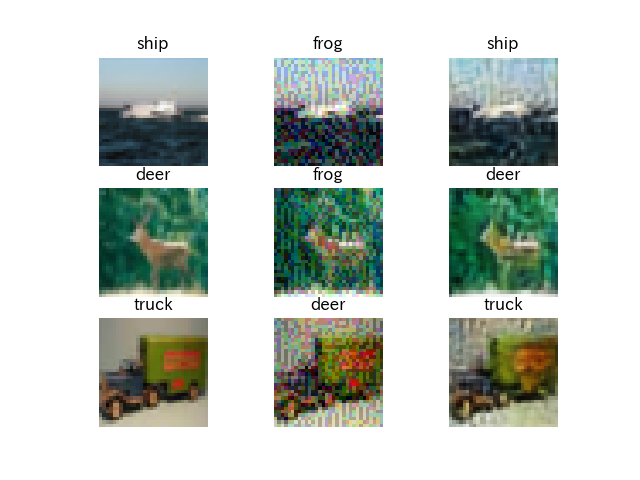
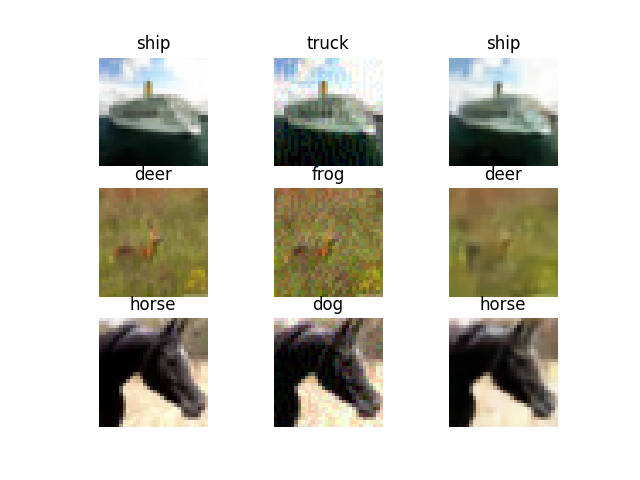
update

diff --git a/MNIST_CIFAR10/plot_example_images.py b/MNIST_CIFAR10/plot_example_images.py
@@ -63,8 +63,11 @@ else:
 
 # Generate adversarial images
 logger.info('Craft adversarial images with FGSM')
-attack = FastGradientMethod(classifier, eps=0.1)
-X_adv = attack.generate(test_x)
+if args.dataset == 'cifar':
+    attack = FastGradientMethod(classifier, eps=0.04)
+else:
+    attack = FastGradientMethod(classifier, eps=0.13)
+X_adv = np.clip(attack.generate(test_x), 0, 1)
 
 # Accuracy and fooling rate
 preds_test_x = np.argmax(classifier.predict(test_x), axis=1)
@@ -132,6 +135,6 @@ for i, idx_img in enumerate(idx_sample_imgs):
     ax[i][2].set_title(label[preds_X_adv_vae[idx_img]])
 
 if args.dataset == 'cifar':
-    plt.savefig('plot_cifar.png')
+    plt.savefig('assets/plot_cifar.png')
 else:
-    plt.savefig('plot_mnist.png')
+    plt.savefig('assets/plot_mnist.png')
